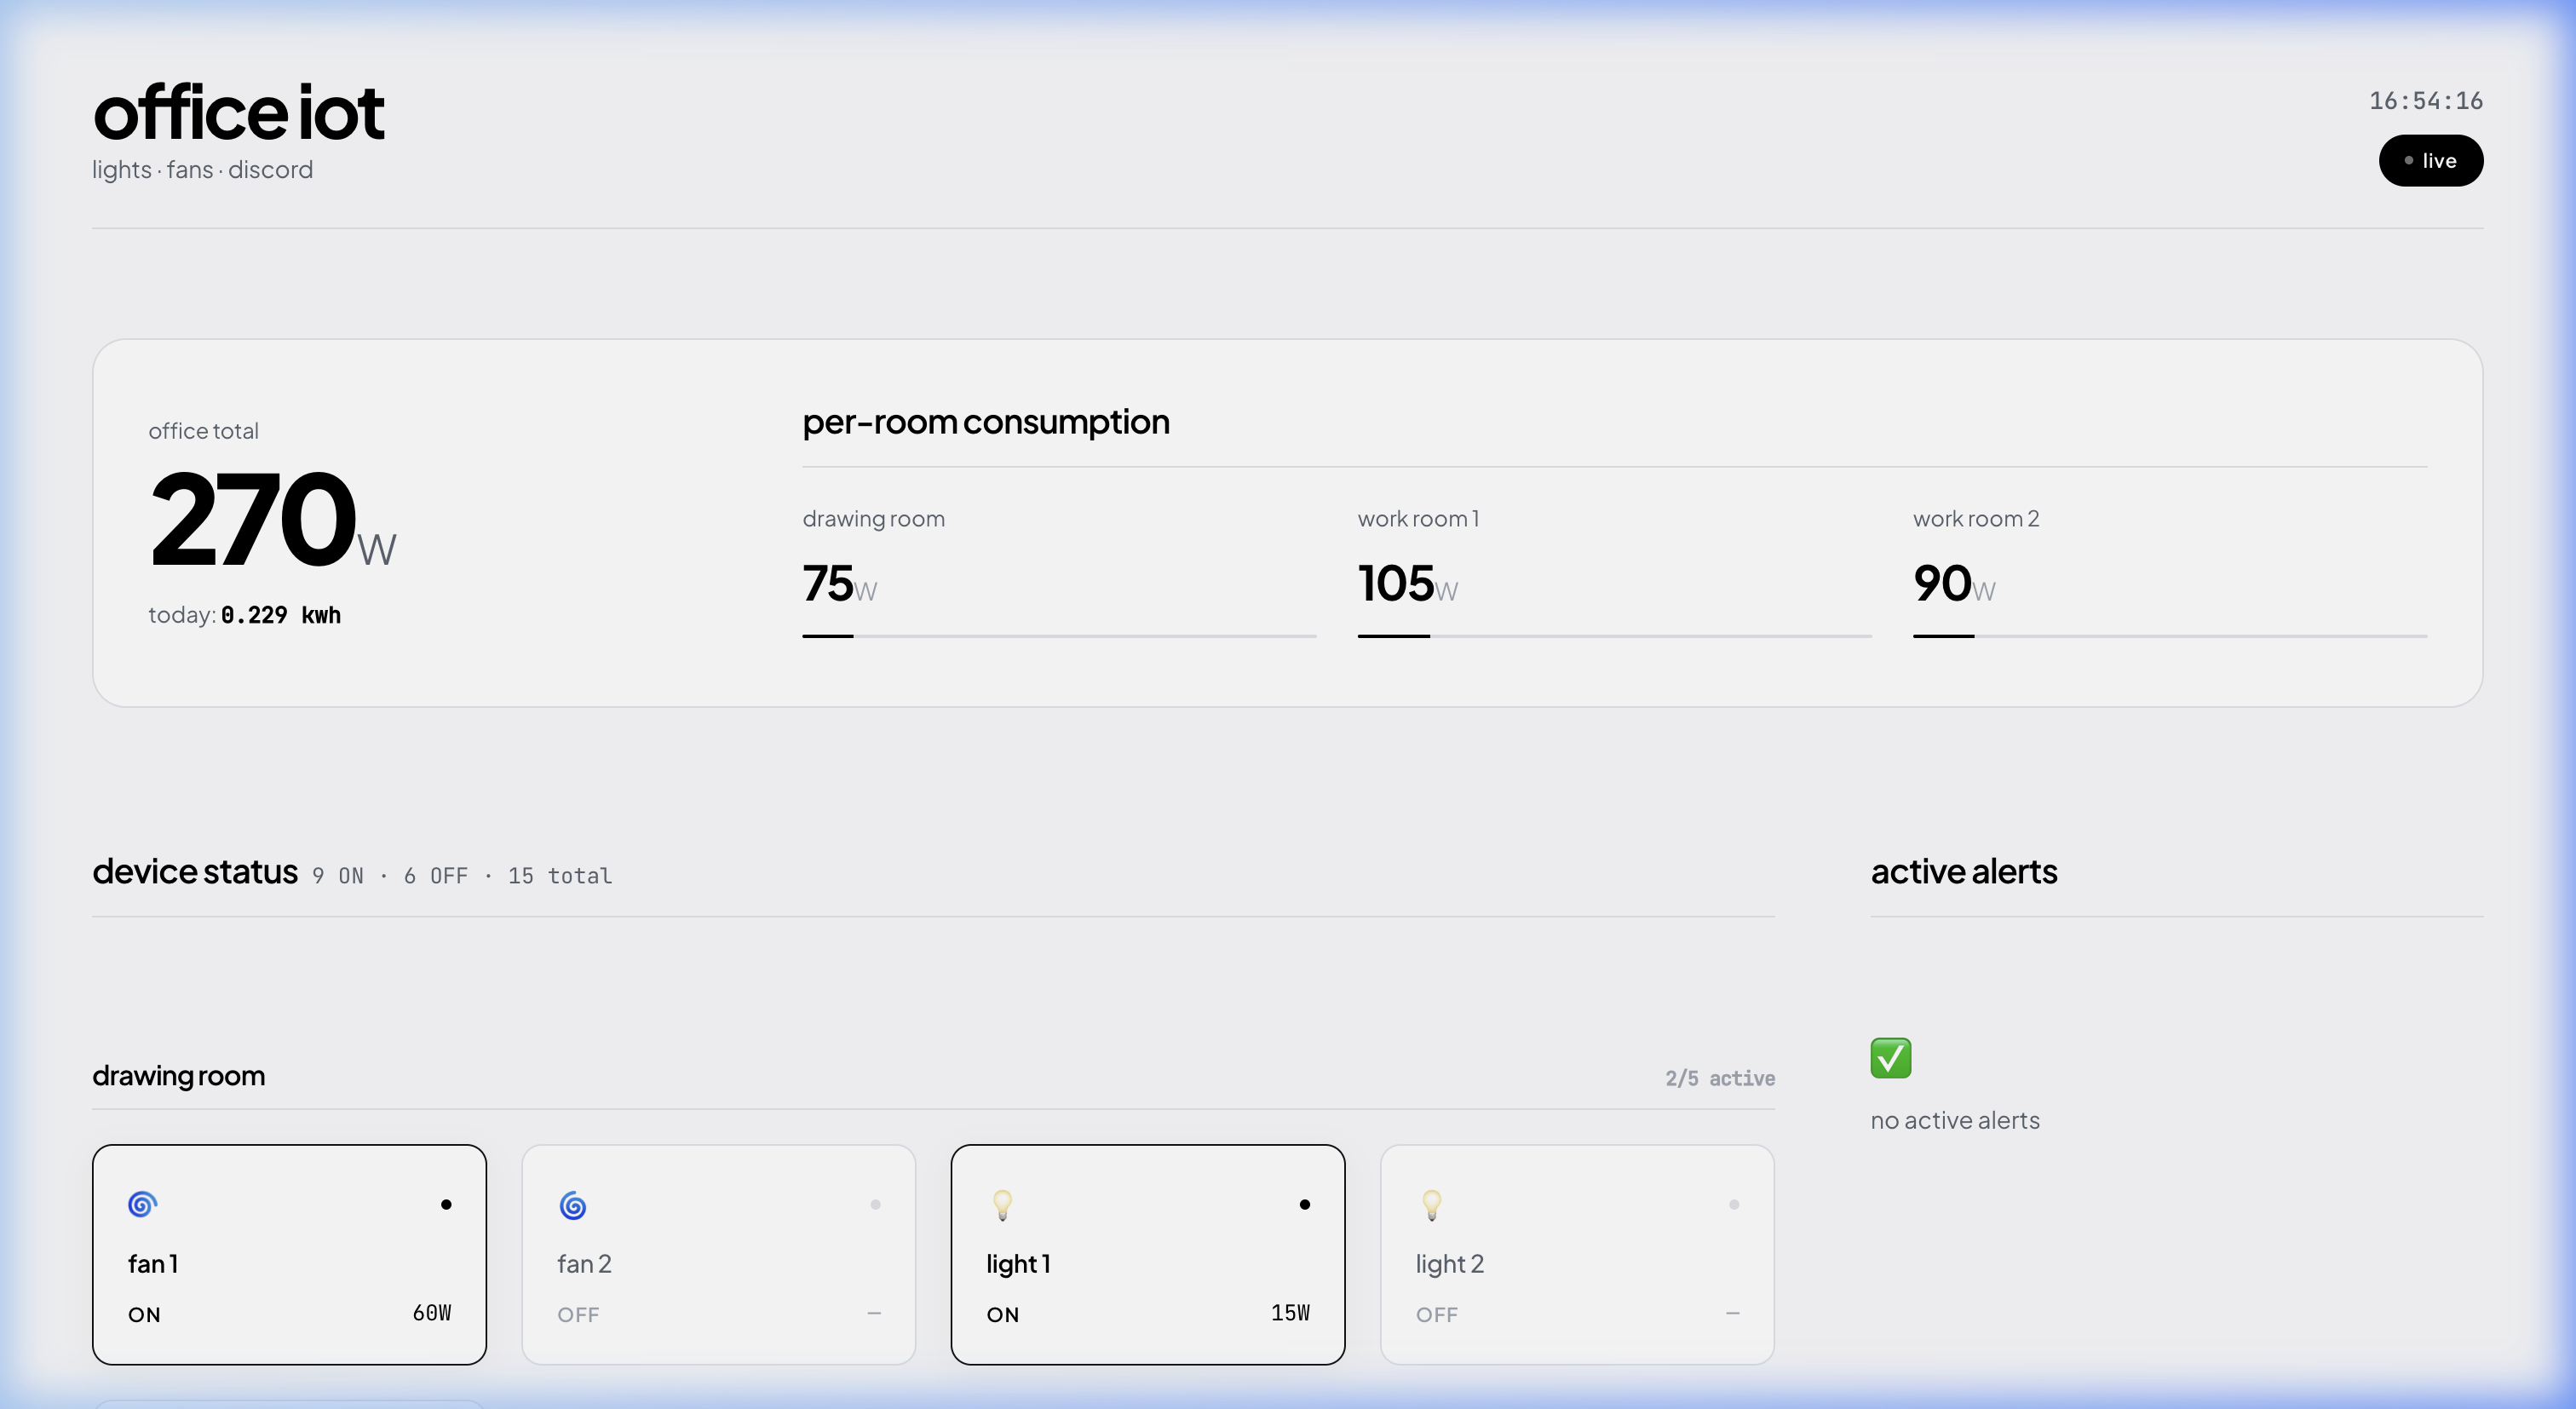
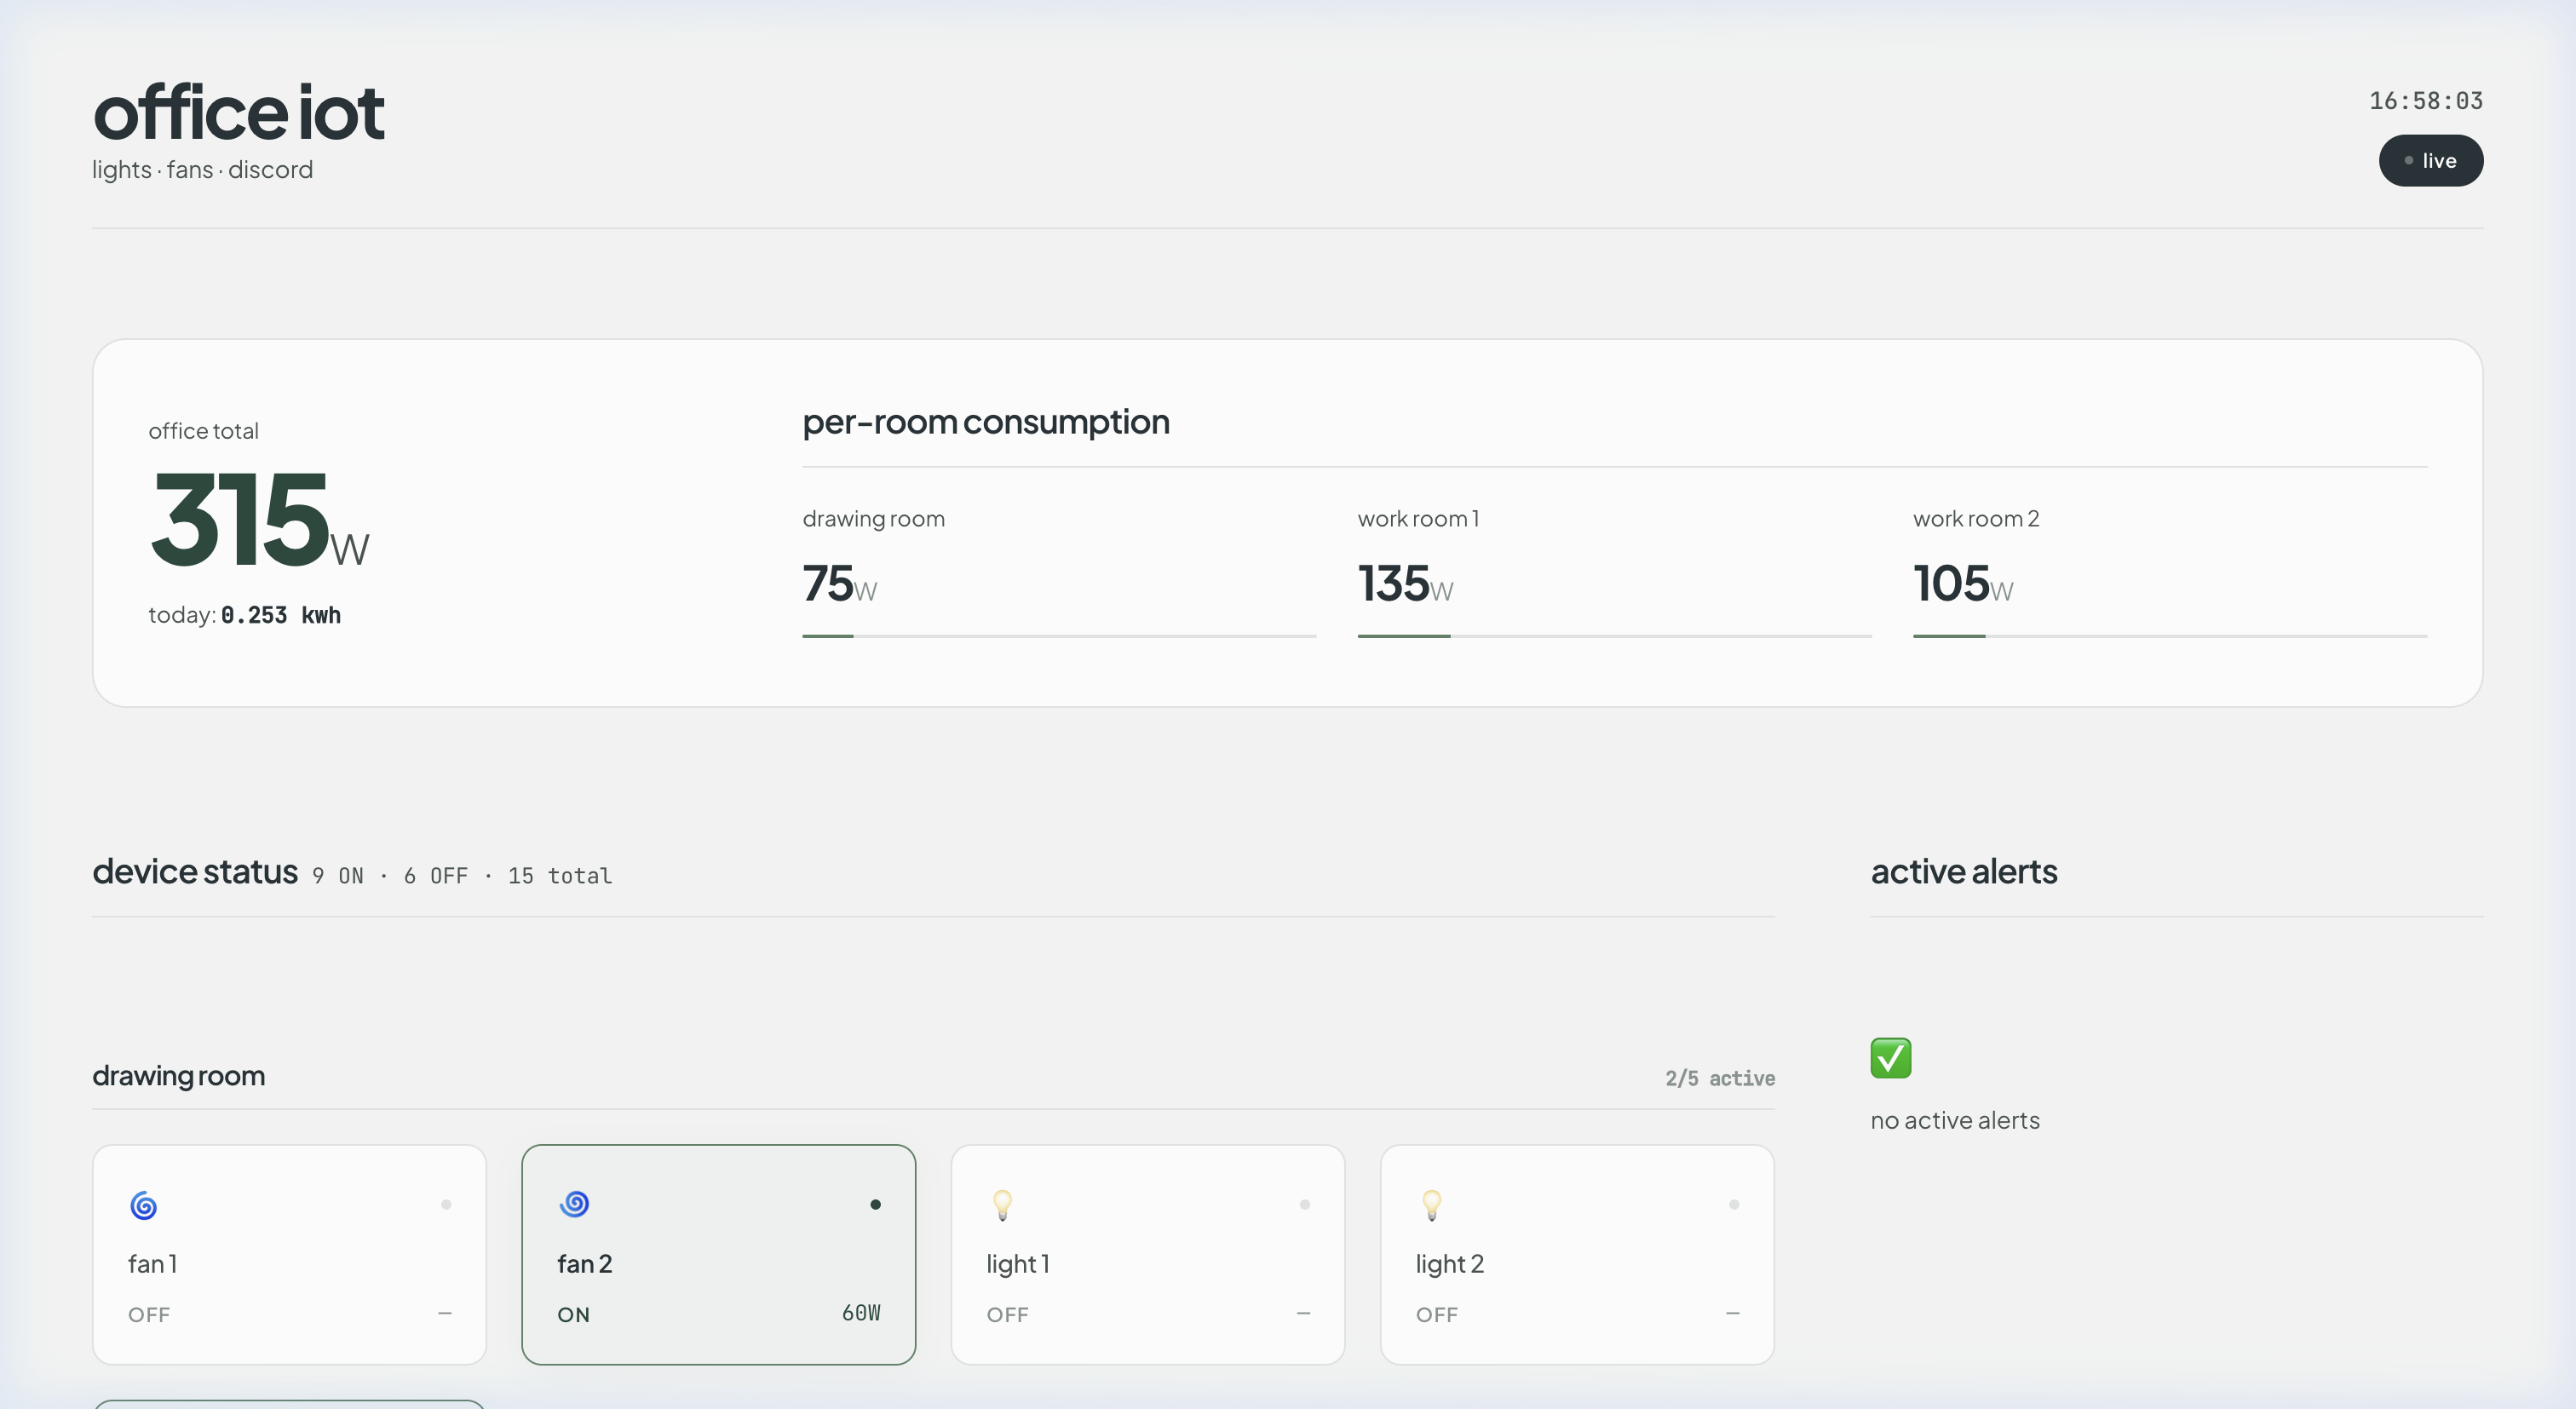
style: apply organic green and slate color palette to minimalist light-mode dashboard

diff --git a/dashboard/src/index.css b/dashboard/src/index.css
@@ -1,34 +1,39 @@
 /* ============================================================
-   Office IoT Monitor — Minimalist Editorial Theme (Sofi-Inspired)
-   Clean, high-contrast, light-mode design with premium typography
+   Office IoT Monitor — Minimalist Theme (Green & Slate Palette)
+   High-contrast, light-mode design using organic sage & forest tones
    ============================================================ */
 
 @import url('https://fonts.googleapis.com/css2?family=Plus+Jakarta+Sans:wght@300;400;500;600;700;800&family=JetBrains+Mono:wght@400;500&display=swap');
 
 /* ── Design Tokens ────────────────────────────────────────── */
 :root {
-  --bg-base:        #f9f9fb;
-  --bg-surface:     #ffffff;
-  --bg-button:      #000000;
+  --color-slate:      #273338;
+  --color-forest:     #284a3e;
+  --color-sage:       #5e8369;
+  --color-dusty:      #9caf88;
   
-  --border:         #e2e4e9;
-  --border-hover:   #111111;
+  --bg-base:          #f4f6f5; /* Clean light gray-green background */
+  --bg-surface:       #ffffff;
+  --bg-button:        var(--color-slate);
+  
+  --border:           #e1e5e3;
+  --border-hover:     var(--color-sage);
 
-  --text-primary:   #000000;
-  --text-secondary: #5c6470;
-  --text-muted:     #9ea5b1;
+  --text-primary:     var(--color-slate);
+  --text-secondary:   #4a5450;
+  --text-muted:       #8a9490;
 
-  --accent-amber:   #e69a22;
-  --accent-red:     #d93838;
-  --accent-green:   #287d55;
-  --accent-blue:    #1f57e6;
+  --accent-amber:     #d48a15;
+  --accent-red:       #c23232;
+  --accent-green:     var(--color-forest);
+  --accent-blue:      var(--color-sage);
 
-  --radius-sm:      6px;
-  --radius-md:      12px;
-  --radius-lg:      20px;
-  --radius-pill:    999px;
+  --radius-sm:        6px;
+  --radius-md:        12px;
+  --radius-lg:        20px;
+  --radius-pill:      999px;
 
-  --transition:     all 0.3s cubic-bezier(0.25, 0.8, 0.25, 1);
+  --transition:       all 0.3s cubic-bezier(0.25, 0.8, 0.25, 1);
 }
 
 /* ── Reset ────────────────────────────────────────────────── */
@@ -162,7 +167,7 @@ body {
   padding-bottom: 0.75rem;
 }
 
-.section-icon { display: none; } /* Editorial look hides emojis in headings */
+.section-icon { display: none; }
 
 .section-title {
   font-size: 1.25rem;
@@ -209,7 +214,7 @@ body {
   font-size: 4.5rem;
   font-weight: 800;
   letter-spacing: -0.06em;
-  color: var(--text-primary);
+  color: var(--color-forest);
   line-height: 1;
 }
 
@@ -276,7 +281,7 @@ body {
 
 .power-room-bar-fill {
   height: 100%;
-  background: var(--text-primary);
+  background: var(--color-sage);
   transition: width 0.6s cubic-bezier(0.25, 0.8, 0.25, 1);
 }
 
@@ -306,7 +311,7 @@ body {
   padding-bottom: 0.5rem;
 }
 
-.room-label-dot { display: none; } /* Minimalist hide */
+.room-label-dot { display: none; }
 
 .devices-grid {
   display: grid;
@@ -328,8 +333,9 @@ body {
 }
 
 .device-card.on {
-  border-color: var(--border-hover);
-  box-shadow: 0 4px 20px rgba(0, 0, 0, 0.04);
+  border-color: var(--color-sage);
+  background: #f0f4f2; /* Soft light sage background highlight */
+  box-shadow: 0 4px 20px rgba(40, 74, 62, 0.04);
 }
 
 .device-card-top {
@@ -340,16 +346,16 @@ body {
 
 .device-icon-wrap {
   font-size: 1.2rem;
-  color: var(--text-secondary);
+  color: var(--text-muted);
 }
 
 .device-card.on .device-icon-wrap {
-  color: var(--text-primary);
+  color: var(--color-forest);
 }
 
 .device-card.on .fan-icon {
   display: inline-block;
-  animation: fan-spin-lite 2s linear infinite;
+  animation: fan-spin-lite 2.5s linear infinite;
 }
 
 @keyframes fan-spin-lite {
@@ -365,7 +371,7 @@ body {
 }
 
 .device-card.on .device-status-dot {
-  background: var(--text-primary);
+  background: var(--color-forest);
 }
 
 .device-name {
@@ -377,7 +383,7 @@ body {
 }
 
 .device-card.on .device-name {
-  color: var(--text-primary);
+  color: var(--color-slate);
   font-weight: 600;
 }
 
@@ -396,7 +402,7 @@ body {
 }
 
 .device-card.on .device-state {
-  color: var(--text-primary);
+  color: var(--color-forest);
 }
 
 .device-watts {
@@ -406,7 +412,7 @@ body {
 }
 
 .device-card.on .device-watts {
-  color: var(--text-primary);
+  color: var(--color-forest);
 }
 
 /* ── Alerts Panel ─────────────────────────────────────────── */